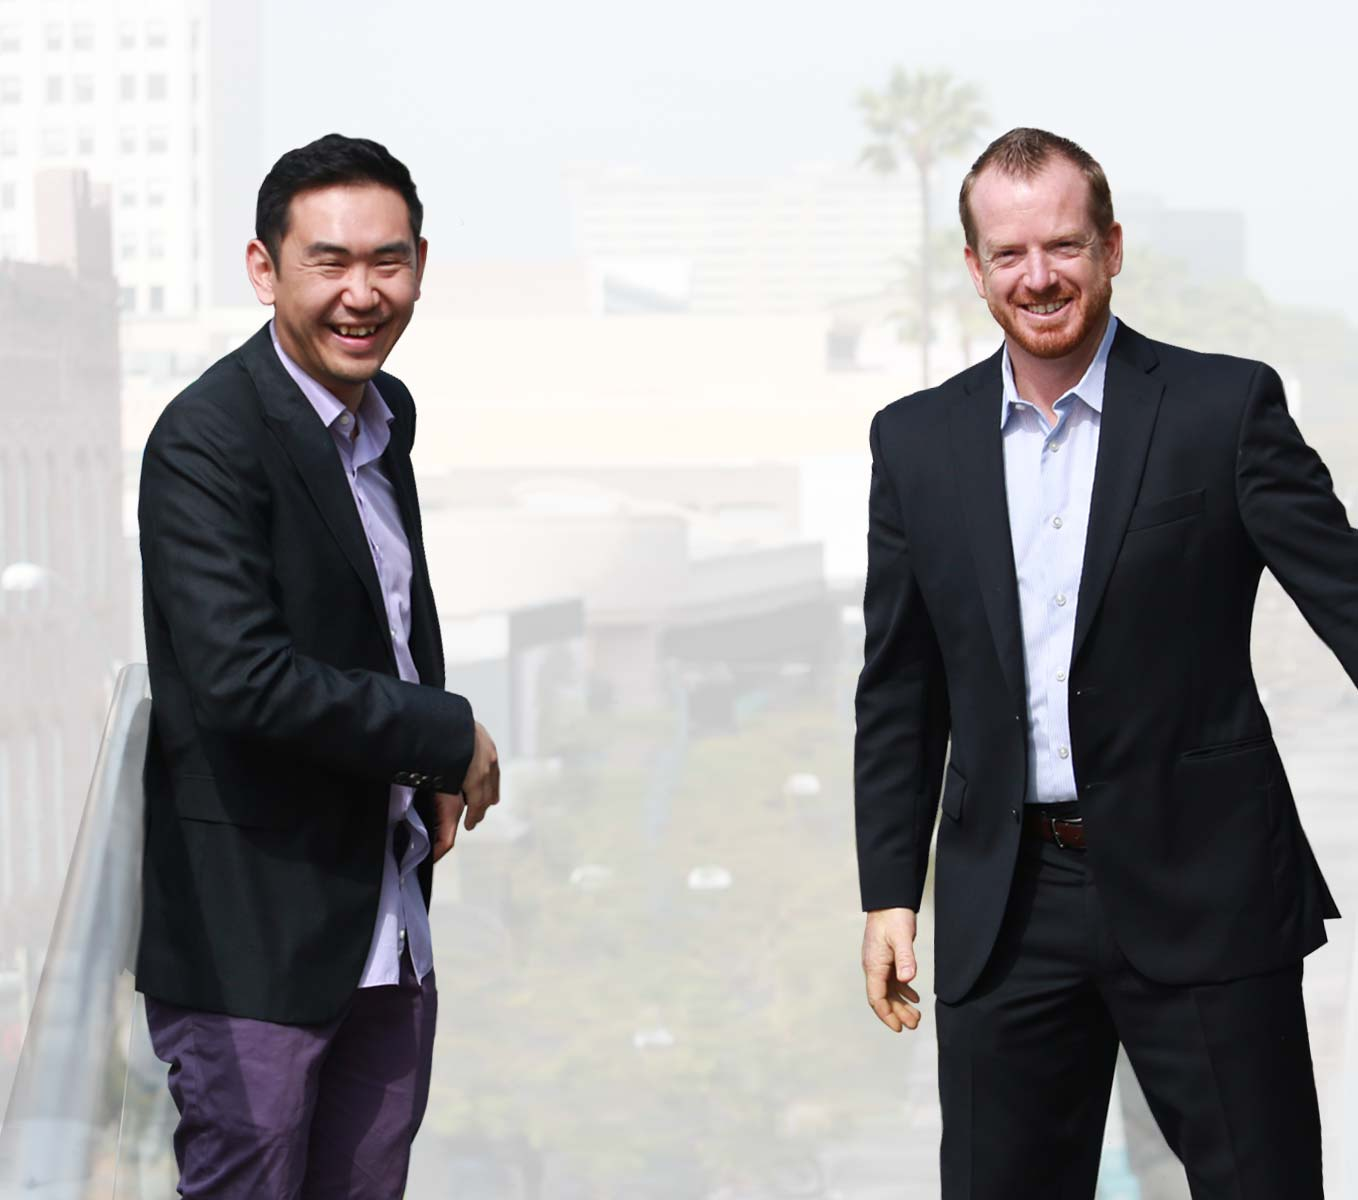
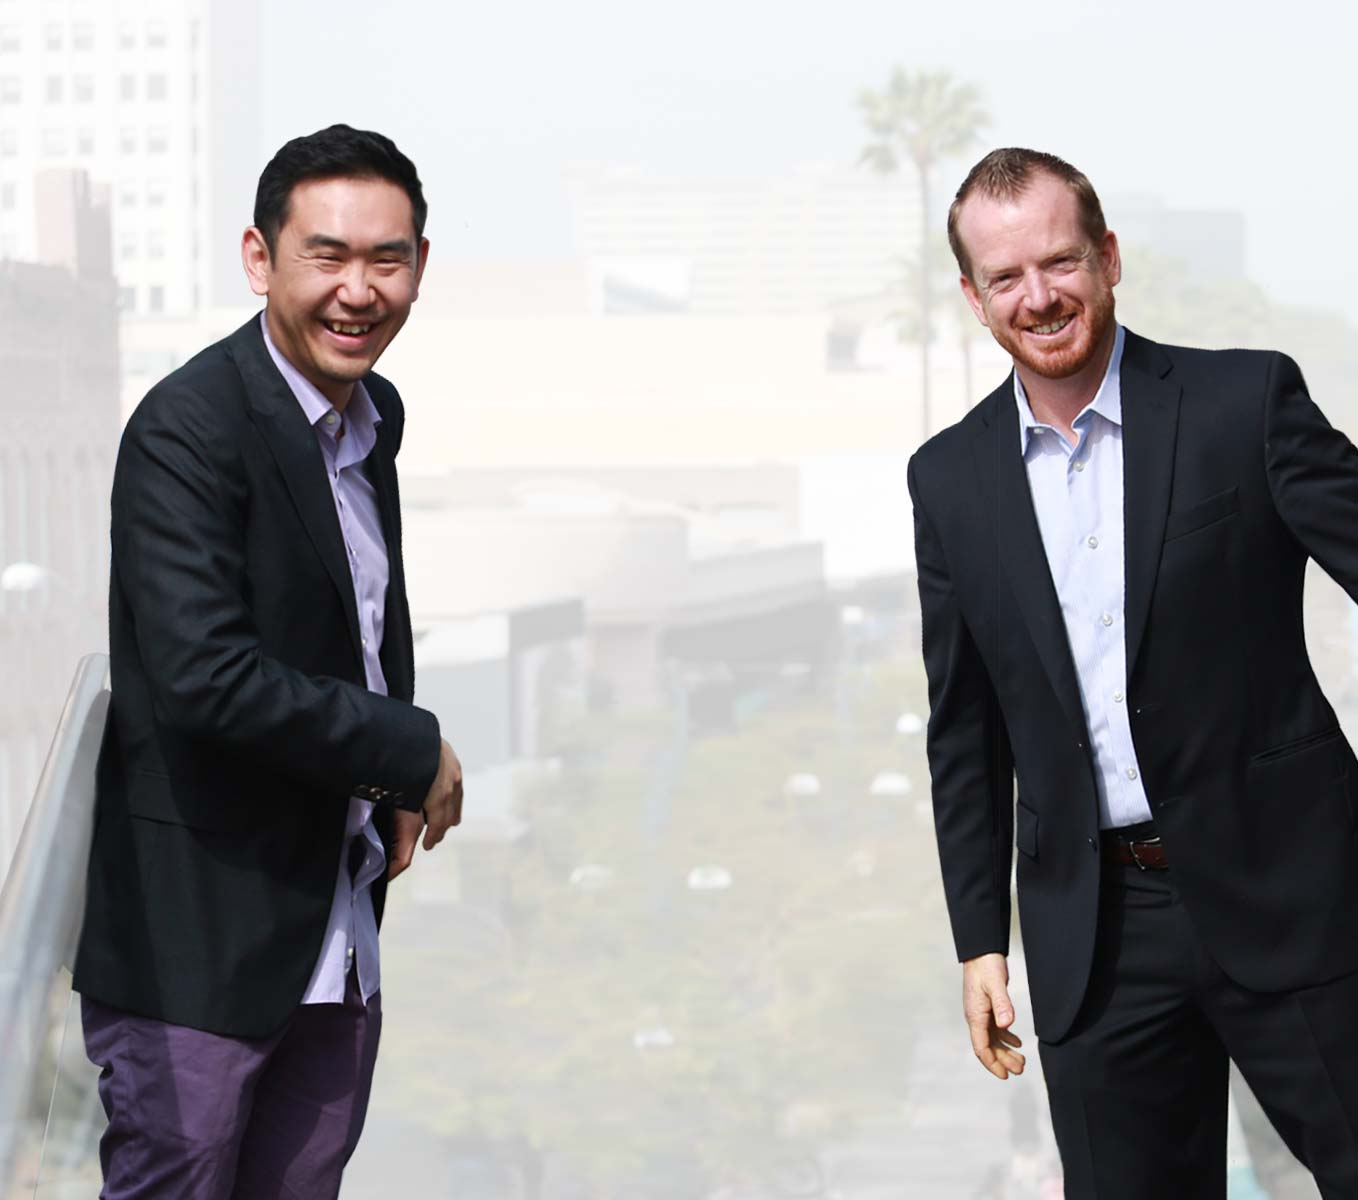
Update mobile home hero breakpoints

Changed region(s): [[0.6186, 0.0925, 1.0, 1.0], [0.0, 0.0925, 0.3711, 1.0], [0.866, 0.2775, 1.0, 0.4625]]

diff --git a/css/screen.scss b/css/screen.scss
@@ -486,8 +486,8 @@ form {
 
   h1 { font-size: 1.5em; margin-top: 80px; }
 
-  @include media(em(400)) {
-    background-size: 680px auto;
+  @include media(em(350)) {
+    background-size: 600px auto;
     background-position: center -40px;
   }
 
